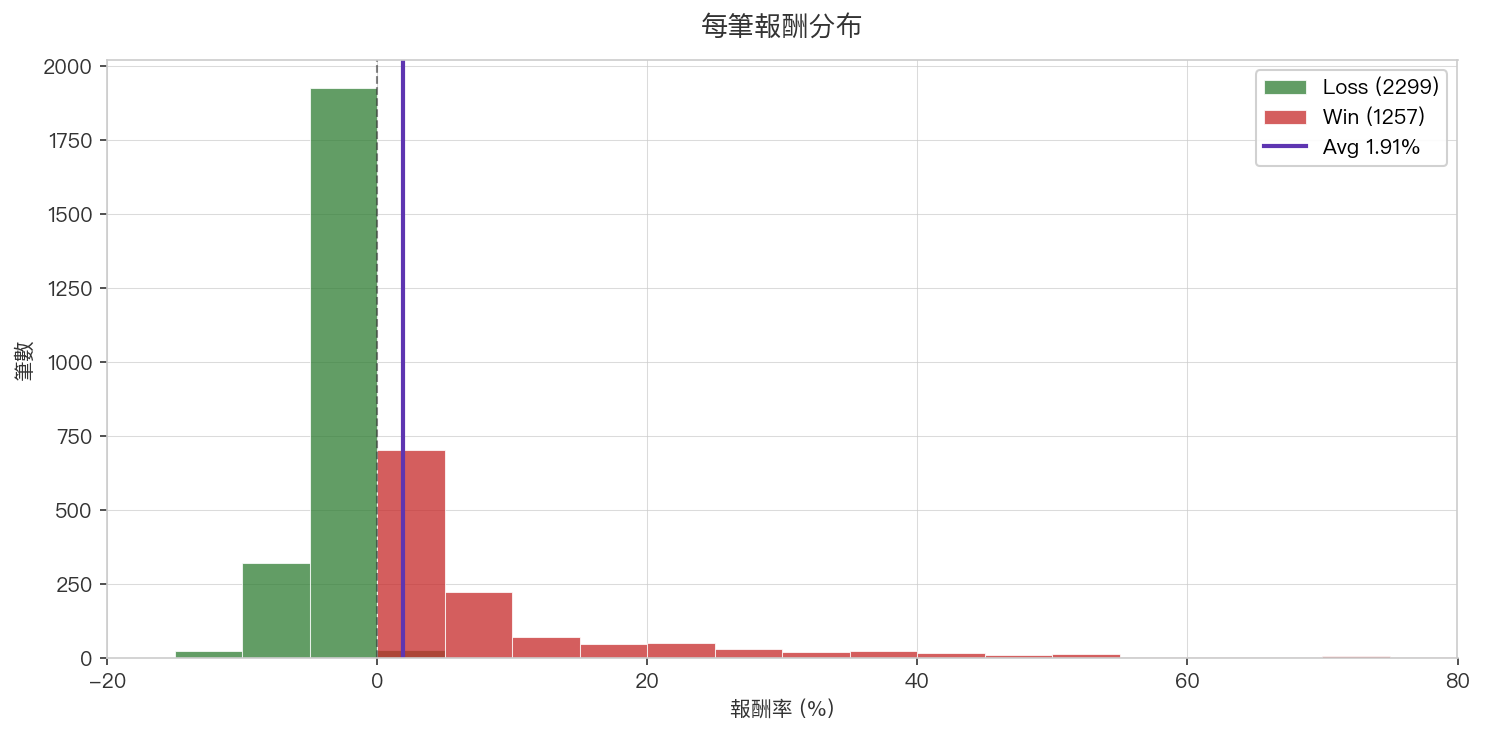
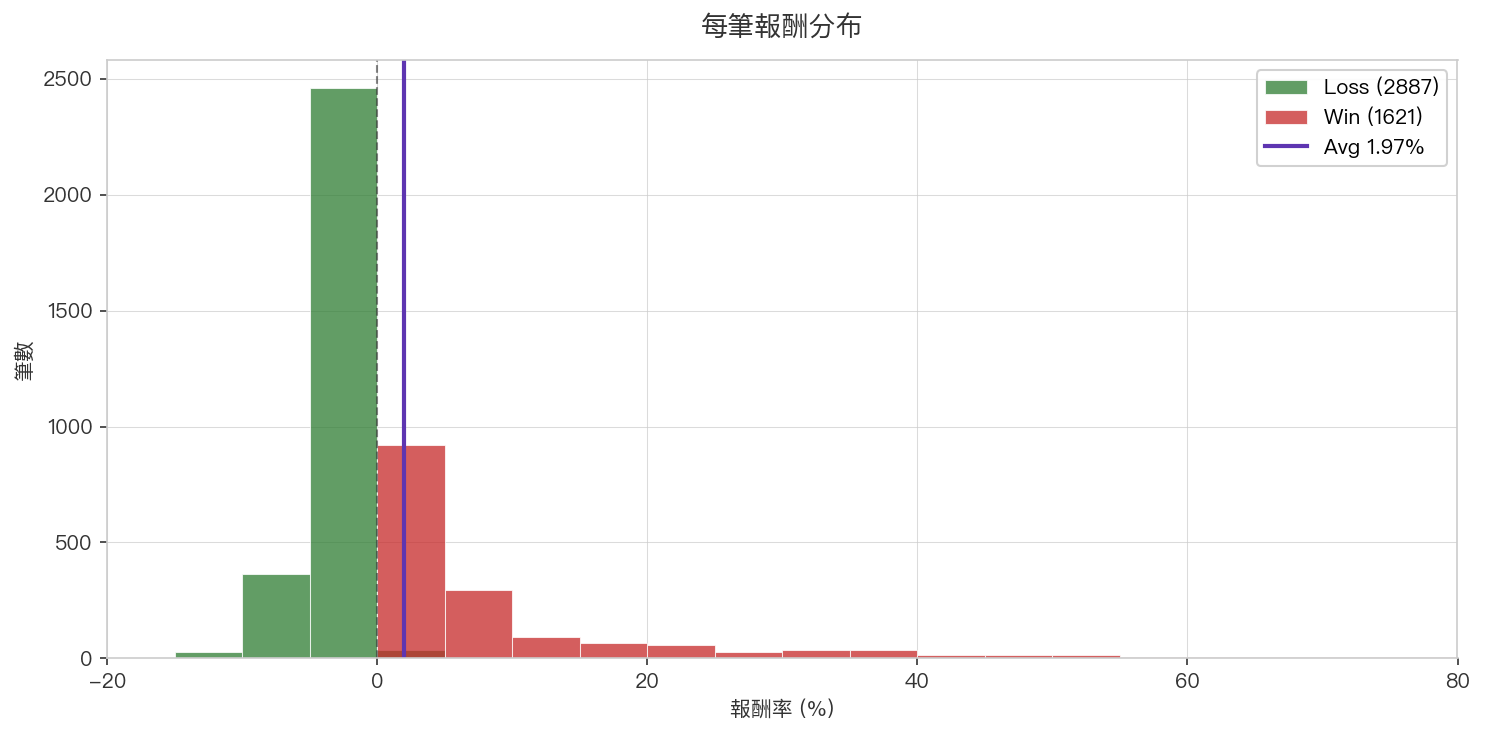
data(black-butterfly): 完整還原 K 後重跑 backtest(3556 → 4508 筆)
套用 yfinance 全市場 corp_actions(17393 events / 1848 stocks)後,
黑飛舞 backtest 結果:

                       舊 (split-only)    新 (full corp)
  樣本                 3556              4508 (+27%)
  勝率                 35.3%             36.0% (+0.7pp)
  平均獲利             +11.00%           +10.74%
  平均虧損             -3.05%            -2.95% (改善)
  期望值               +1.91%            +1.97% (+0.06)
  中位數               -1.65%            -1.50%
  平均 MFE             +31.13%           +29.94%
  平均 MAE             -14.18%           -13.30%

樣本 +27% 跟紅爆 +25% 一致 — 確認除權息之前干擾相當多訊號:
過去這 +952 筆會被「除權息日 close 跌動 4-5% 誤觸 Stage A 停損」吃掉。
還原 K 後這些真實訊號回來,且勝率/虧損改善(因為「假停損」消失)。

7 張 backtest 圖全部重產(從新 4508 筆 backtest CSV)。

diff --git a/docs/about/strategy.md b/docs/about/strategy.md
@@ -2,9 +2,12 @@
 
 **「黑飛舞」= 創高雙黑站5MA(強勢回檔)**
 
-這是一個**台股短線「強勢股回檔買點」進場策略**,經過 **9 年全市場、3556 筆 trigger 完整回測驗證**。
+這是一個**台股短線「強勢股回檔買點」進場策略**,經過 **9 年全市場、4508 筆 trigger 完整回測驗證**(含完整還原 K 線:拆股 / 減資 / 除權息)。
 
-> ⚡ **2026-05-07 更新**:加入「60MA > 120MA > 240MA macro alignment」進場條件 — 期望值從 +1.20% 提升到 **+1.91%**(+59%),勝率從 32.6% → **35.3%**。
+> ⚡ **2026-05-07 更新**:
+>
+> 1. 加入「60MA > 120MA > 240MA macro alignment」進場條件 — 期望值從 +1.20% 提升到 +1.91%(+59%)
+> 2. 完整還原 K 線(拆股 + 減資 + 除權息)上線 — 樣本從 3556 → **4508 筆**(+27%,過去被除權息誤觸發停損的真實訊號被恢復),勝率從 35.3% → **36.0%**,期望值 +1.91% → **+1.97%**
 
 ---
 
@@ -52,24 +55,24 @@
 
 ---
 
-## 📊 回測結果(9 年 / 全市場 / 3556 筆,含 macro alignment)
+## 📊 回測結果(9 年 / 全市場 / 4508 筆,含 macro alignment + 完整還原 K)
 
-回測期間:**2017-05-02 ~ 2026-05-05**(含 2018 貿易戰 / 2020 疫情 / 2022 熊市 / 2024 AI 牛市)
+回測期間:**2017-05-02 ~ 2026-05-06**(含 2018 貿易戰 / 2020 疫情 / 2022 熊市 / 2024 AI 牛市)
 
 ### 核心指標
 
 | 指標 | 數值 | 說明 |
 |------|------|------|
-| 總 trigger 數 | **3556** | 9 年全市場掃描(2052 檔)— macro alignment 過濾掉一半弱訊號 |
-| 已結案 | 3518 | 觀察期內未出場僅 38 筆 (1.1%) |
-| 勝率 | **35.3%** | wins=1257, losses=2299(較舊版 32.6% +2.7pp) |
-| 平均獲利 | **+11.00%** | 含尾部飆股(最大 +162%) |
-| 平均虧損 | **-3.05%** | Stage A 緊停損保命 |
-| **每筆期望值** | **+1.91%** | 扣 0.4% 手續費後仍有 +1.51%(較舊版 +1.20% +59%) |
-| 中位數報酬 | -1.65% | 多數單筆小虧,獲利集中在右尾 |
-| 平均持有 | 6.3 天 | 短線策略 |
-| 平均 MFE | +31.13% | 進場後潛在最高漲幅 |
-| 平均 MAE | -14.18% | 「不停損」會看到的最大跌幅 — **證明停損很關鍵** |
+| 總 trigger 數 | **4508** | 9 年全市場掃描(2052 檔)+ 完整還原 K 線(拆股+除權息) |
+| 已結案 | 4450 | 觀察期內未出場僅 58 筆 (1.3%) |
+| 勝率 | **36.0%** | wins=1621, losses=2887(較舊版 35.3% +0.7pp) |
+| 平均獲利 | **+10.74%** | 含尾部飆股(最大 +179% 美琪瑪) |
+| 平均虧損 | **-2.95%** | Stage A 緊停損保命(略為改善因除權息誤觸發停損消失) |
+| **每筆期望值** | **+1.97%** | 扣 0.4% 手續費後仍有 +1.57% |
+| 中位數報酬 | -1.50% | 多數單筆小虧,獲利集中在右尾 |
+| 平均持有 | 6.9 天 | 短線策略 |
+| 平均 MFE | +29.94% | 進場後潛在最高漲幅 |
+| 平均 MAE | -13.30% | 「不停損」會看到的最大跌幅 — **證明停損很關鍵** |
 
 ### 每筆報酬分布
 
@@ -82,8 +85,8 @@
 
 ![出場原因分布](../assets/backtest/exit_reasons.png)
 
-> **52.3% 觸及 Stage A 停損** — 大多數 trigger 沒站穩 +5%,這是「短線回檔」的合理結果。
-> **15.7% 走到 Stage D**(漲超過 +15% 後從高點回檔 12% 出場)— 是貢獻 +11.00% 平均獲利的核心來源。**macro alignment 加入後,Stage D 比例從 12.1% 提升到 15.7%**(過濾掉的弱訊號本來就難走到 Stage D)。
+> **52.4% 觸及 Stage A 停損** — 大多數 trigger 沒站穩 +5%,這是「短線回檔」的合理結果。
+> **14.3% 走到 Stage D**(漲超過 +15% 後從高點回檔 12% 出場)— 是貢獻 +10.74% 平均獲利的核心來源。
 
 ### 策略穩定性
 
@@ -119,7 +122,7 @@
 ## 📌 現實使用注意事項
 
 1. **回測 ≠ 實際操作**
-   真實滑價、心理因素、執行紀律都會降低勝率。期望值 +1.91% 扣手續費(~0.4%/筆)後約 **+1.51%/筆**。
+   真實滑價、心理因素、執行紀律都會降低勝率。期望值 +1.97% 扣手續費(~0.4%/筆)後約 **+1.57%/筆**。
 
 2. **熊市要空手或降部位**
    2022 熊市單年期望值轉負 — 多頭排列只是必要條件,大盤環境決定整體勝率。
